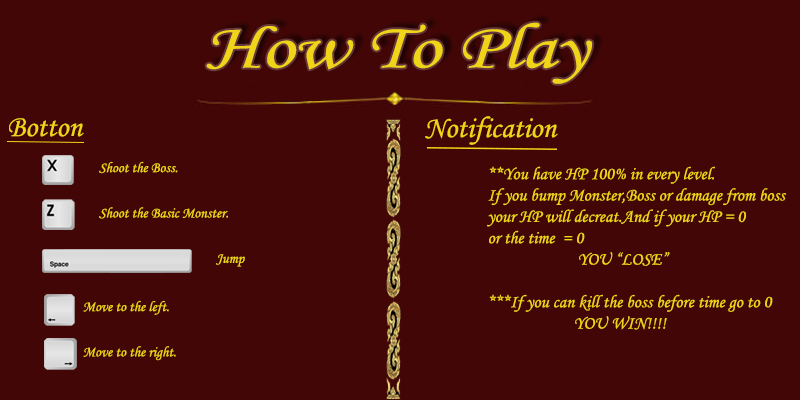
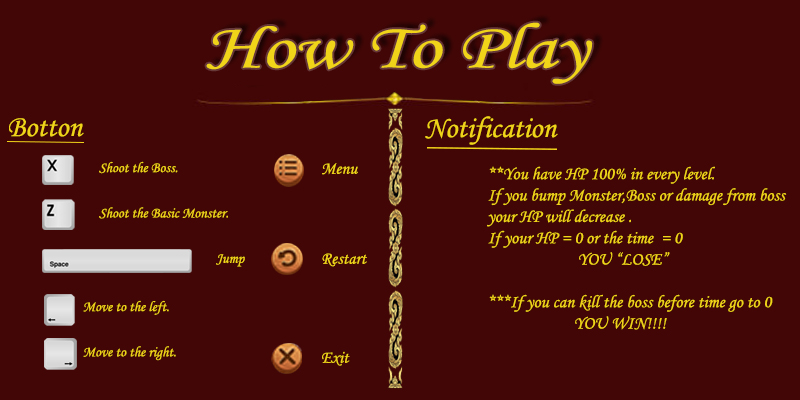
Fix the game

Changed region(s): [[0.3125, 0.27, 0.5312, 1.0], [0.5938, 0.51, 0.9375, 0.63], [0.3438, 0.84, 0.4375, 0.93]]

diff --git a/FightForYou/Ptuow.java b/FightForYou/Ptuow.java
@@ -8,9 +8,9 @@ import greenfoot.*;  // (World, Actor, GreenfootImage, Greenfoot and MouseInfo)
  */
 public class Ptuow extends Boss
 {
-    int BossHP = 1000;
+    int BossHP = 50;
     int time;
-    int direc =-1;
+    int direc =-2;
     /**
      * Act - do whatever the Ptuow wants to do. This method is called whenever
      * the 'Act' or 'Run' button gets pressed in the environment.
@@ -24,7 +24,7 @@ public class Ptuow extends Boss
         move(direc);
         shoot();
         walk();
-        BossHP();
+       
     }    
     public void shoot(){
         
@@ -37,16 +37,16 @@ public class Ptuow extends Boss
                     
              
         }
-        public void BossHP(){
-        if(isTouching(bulletboss.class)){
-            BossHP--;
-            if(BossHP == 0){
+       public void hitit(int damage2) {
+        BossHP = BossHP - damage2;
+         if(BossHP == 0){
                 getWorld().removeObject(this);
+                Greenfoot.setWorld(new EndGame());
+                
             }
-        }
     }
     
-     public void die(){
+    /* public void die(){
          if(isTouching(bulletboss.class)){
               heart--;
               if(heart <= 0 ){
@@ -54,7 +54,7 @@ public class Ptuow extends Boss
                 }
             }
         
-       }
+       }*/
        public void walk(){
       if(isAtEdge()){
         setImage("boss02.png");

diff --git a/FightForYou/edok.java b/FightForYou/edok.java
@@ -12,28 +12,40 @@ public class edok extends Boss
      * Act - do whatever the edok wants to do. This method is called whenever
      * the 'Act' or 'Run' button gets pressed in the environment.
      */
-    int BossHP = 1000;
+    int BossHP = 10;
+    int direc = -2;
     public void act() 
     {
         // Add your action code here.
        // win();
-        move(-1);
+        move(direc);
+        walk();
         
     } 
   
        public void hitit(int damage2) {
-        heart = heart - damage2;
-        
+        BossHP = BossHP - damage2;
+         if(BossHP == 0){
+                getWorld().removeObject(this);
+                Greenfoot.setWorld(new EndGame());
+                
+            }
     }
     
-    public void BossHP(){
+   /* public void BossHP(){
         if(isTouching(bulletboss.class)){
             BossHP--;
             if(BossHP == 0){
                 getWorld().removeObject(this);
                 Greenfoot.setWorld(new EndGame());
-                Greenfoot.playSound("Good1.wav");
+                
             }
+        }
+    }*/
+     public void walk(){
+      if(isAtEdge()){
+        setImage("boss02.png");
+        direc = -direc;
         }
     }
 }

diff --git a/FightForYou/Bigboss.java b/FightForYou/Bigboss.java
@@ -12,7 +12,7 @@ public class Bigboss extends Boss
      * Act - do whatever the Bigboss wants to do. This method is called whenever
      * the 'Act' or 'Run' button gets pressed in the environment.
      */
-    double heart2= 10000;
+    double heart2= 60;
    int time;
     int direc =-2;
     /**
@@ -28,7 +28,7 @@ public class Bigboss extends Boss
         move(direc);
         shoot();
         walk();
-        die();
+        
     }    
     public void shoot(){
         
@@ -41,18 +41,14 @@ public class Bigboss extends Boss
                     
              
         }
-    
-     public void die(){
-         if(isTouching(bulletboss.class)){
-              heart2--;
-              if(heart2 <= 0 ){
+   public void hitit(int damage2) {
+        heart2 = heart2 - damage2;
+         if(heart2 == 0){
                 getWorld().removeObject(this);
-                
                 Greenfoot.setWorld(new EndGame());
-                }
+                
             }
-        
-       }
+    }
        public void walk(){
       if(isAtEdge()){
         direc = -direc;

diff --git a/FightForYou/LevelThree.java b/FightForYou/LevelThree.java
@@ -60,7 +60,7 @@ public class LevelThree extends World
        public void addmonster(){
             
            time++;
-           if (time ==120&& d==true){
+           if (time ==60&& d==true){
                addObject(new tuow(),Greenfoot.getRandomNumber(600)+800,310);
                moncount++;
               if(Bigboss.class != null){

diff --git a/FightForYou/LevelOne.java b/FightForYou/LevelOne.java
@@ -49,7 +49,7 @@
        public void addmonster(){
             
            time++;
-          if (time ==120 && d==true){
+          if (time ==60 && d==true){
                addObject(new MonLv1(),Greenfoot.getRandomNumber(600)+800,310);
                
                moncount++;

diff --git a/FightForYou/LevelTwo.java b/FightForYou/LevelTwo.java
@@ -64,7 +64,7 @@
             
              
            time++;
-          if (time ==120 && d==true){
+          if (time ==60 && d==true){
                addObject(new MonLv1(),Greenfoot.getRandomNumber(600)+800,310);
                
                moncount++;

diff --git a/FightForYou/Bullet.java b/FightForYou/Bullet.java
@@ -22,7 +22,7 @@ public class Bullet extends game
     public void act()
     {
       
-      setLocation(getX()+3,getY());
+      setLocation(getX()+2,getY());
         if(isAtEdge()){
          getWorld().removeObject(this);
          return;

diff --git a/FightForYou/Monster.java b/FightForYou/Monster.java
@@ -27,7 +27,7 @@ public class Monster extends Actor
    
     
     public void movement(){
-        move(-2);
+        move(-4);
         if(isAtEdge()){
         getWorld().removeObject(this);
         }
